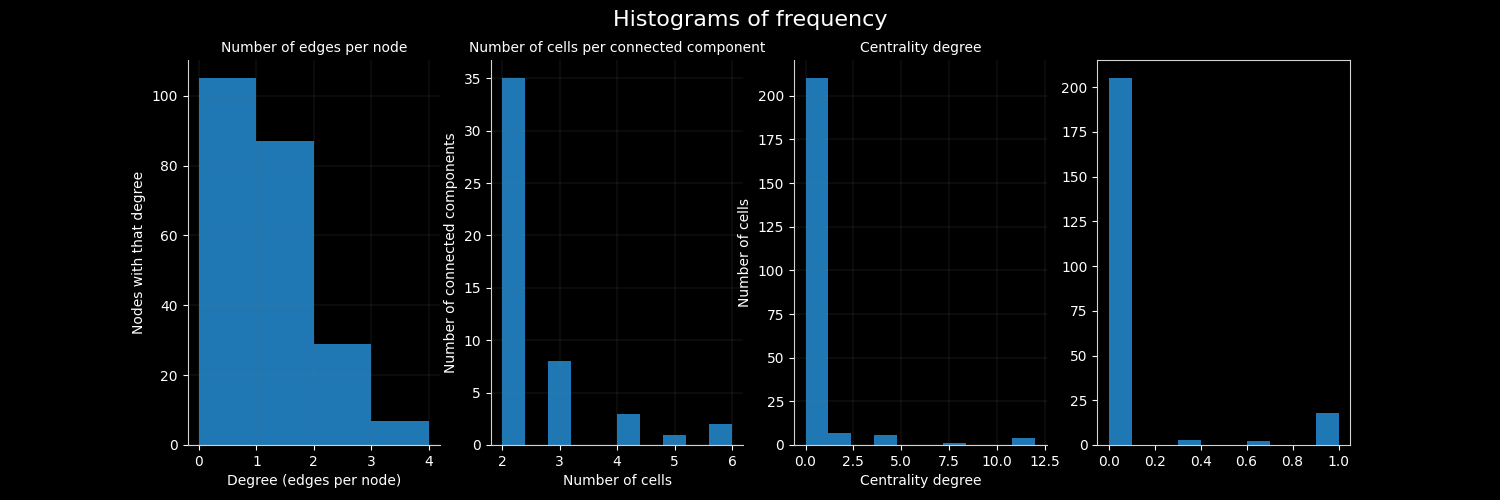
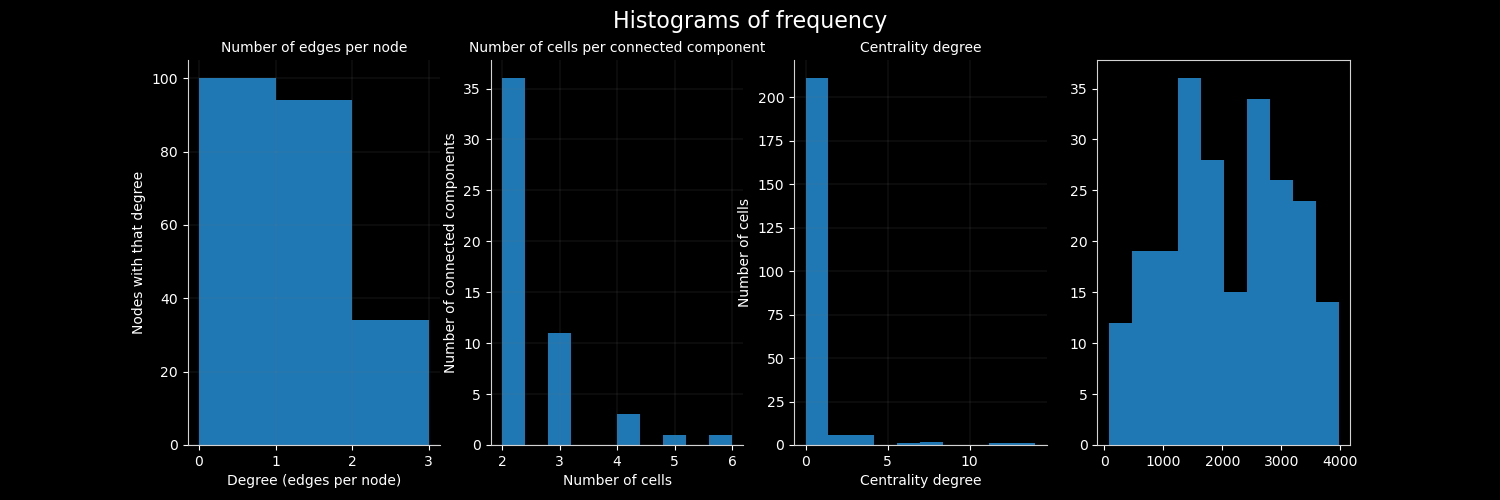
Working on automation

diff --git a/connectivityModel.py b/connectivityModel.py
@@ -15,6 +15,7 @@ import probabilityFunctions as pf
 import paths
 import clustering
 import nullModel
+import cellsDistribution
 
 def main():
     nullModeling = True
@@ -23,7 +24,7 @@ def main():
     animal = 'Control 6 L1'                 # Animal
     slice = '1D'                            # Slice and side, number may be 1-4, side may be D or I
     anathomicSc = 'all'                     # Section inside nuclei, may be 1-3, or all
-    fixedRadius = True                      # Indicating if the program must work with fixed or random radius values
+    fixedRadius = False                      # Indicating if the program must work with fixed or random radius values
     # Location of file to analyze
     fileLocation = 'Data/For processing/' + animal + '/' + slice + '.csv'
     #fileLocation = 'Data/Test/1D.csv'
@@ -118,7 +119,7 @@ def main():
 
     # Returns a numpy array indicating the degree (number of edges) of each node
     edgesPN = connectedComponents.edgesPerNode(binMatrix)
-    print('Median of edges per node: {}'.format(np.median(edgesPN)))
+    #print('Median of edges per node: {}'.format(np.median(edgesPN)))
     #edgVals, edgCounts = np.unique(edgesPN, return_counts=True)
     #edgHist = dict(zip(edgVals, edgCounts))
 
@@ -131,17 +132,7 @@ def main():
     transitivity = clustering.transitivityCoef(cells, adjList, binMatrix)
     print('Transitivity of the network:', transitivity)
 
-    ######## About null model ##########
-
-    #nullCells = nullModel.generateCells(400, 2250, 2500, 4500, 5000)
-    #fig3, ax3 = plt.subplots()
-    #networkPlots.drawNodes(nullCells, ax3)
-    #fig3.set_size_inches((7.15,9.1))
-    #ax3.set_xlim(-500, 5000)
-    #ax3.set_ylim(-500, 6500)
-    #qqplot(edgesPN, line='s')
-    #stat, p = normaltest(edgesPN)
-    #print('Statistics=%.3f, p=%.3f' % (stat, p))
+    distCells = cellsDistribution.distribution1D(range(1, len(cells)), cells, 'x')
 
     # Creates a figure for the histogram of node degree and nodes per connected components
     fig2, ax2 = plt.subplots(1, 4)
@@ -149,7 +140,8 @@ def main():
     ax2[0].hist(edgesPN, bins = int(np.amax(edgesPN)))
     ax2[1].hist(nodesPCC_WOZ)
     ax2[2].hist(centrality)
-    ax2[3].hist(localClustering)
+    ax2[3].hist(distCells)
+    #ax2[3].hist(localClustering)
 
     figFolder = 'Figures/Saved/'
     # Style and info for the network plots figure

diff --git a/cellsDistribution.py b/cellsDistribution.py
@@ -1,0 +1,10 @@
+import numpy as np
+
+def distribution1D(cells, cellsDic, axis):
+    histogram = np.empty(len(cells))
+    for i, cell in enumerate(cells):
+        if axis == 'x':
+            histogram[i] = cellsDic[cell].x
+        elif acis == 'y':
+            histogram[i] = cellsDic[cell].y
+    return histogram
